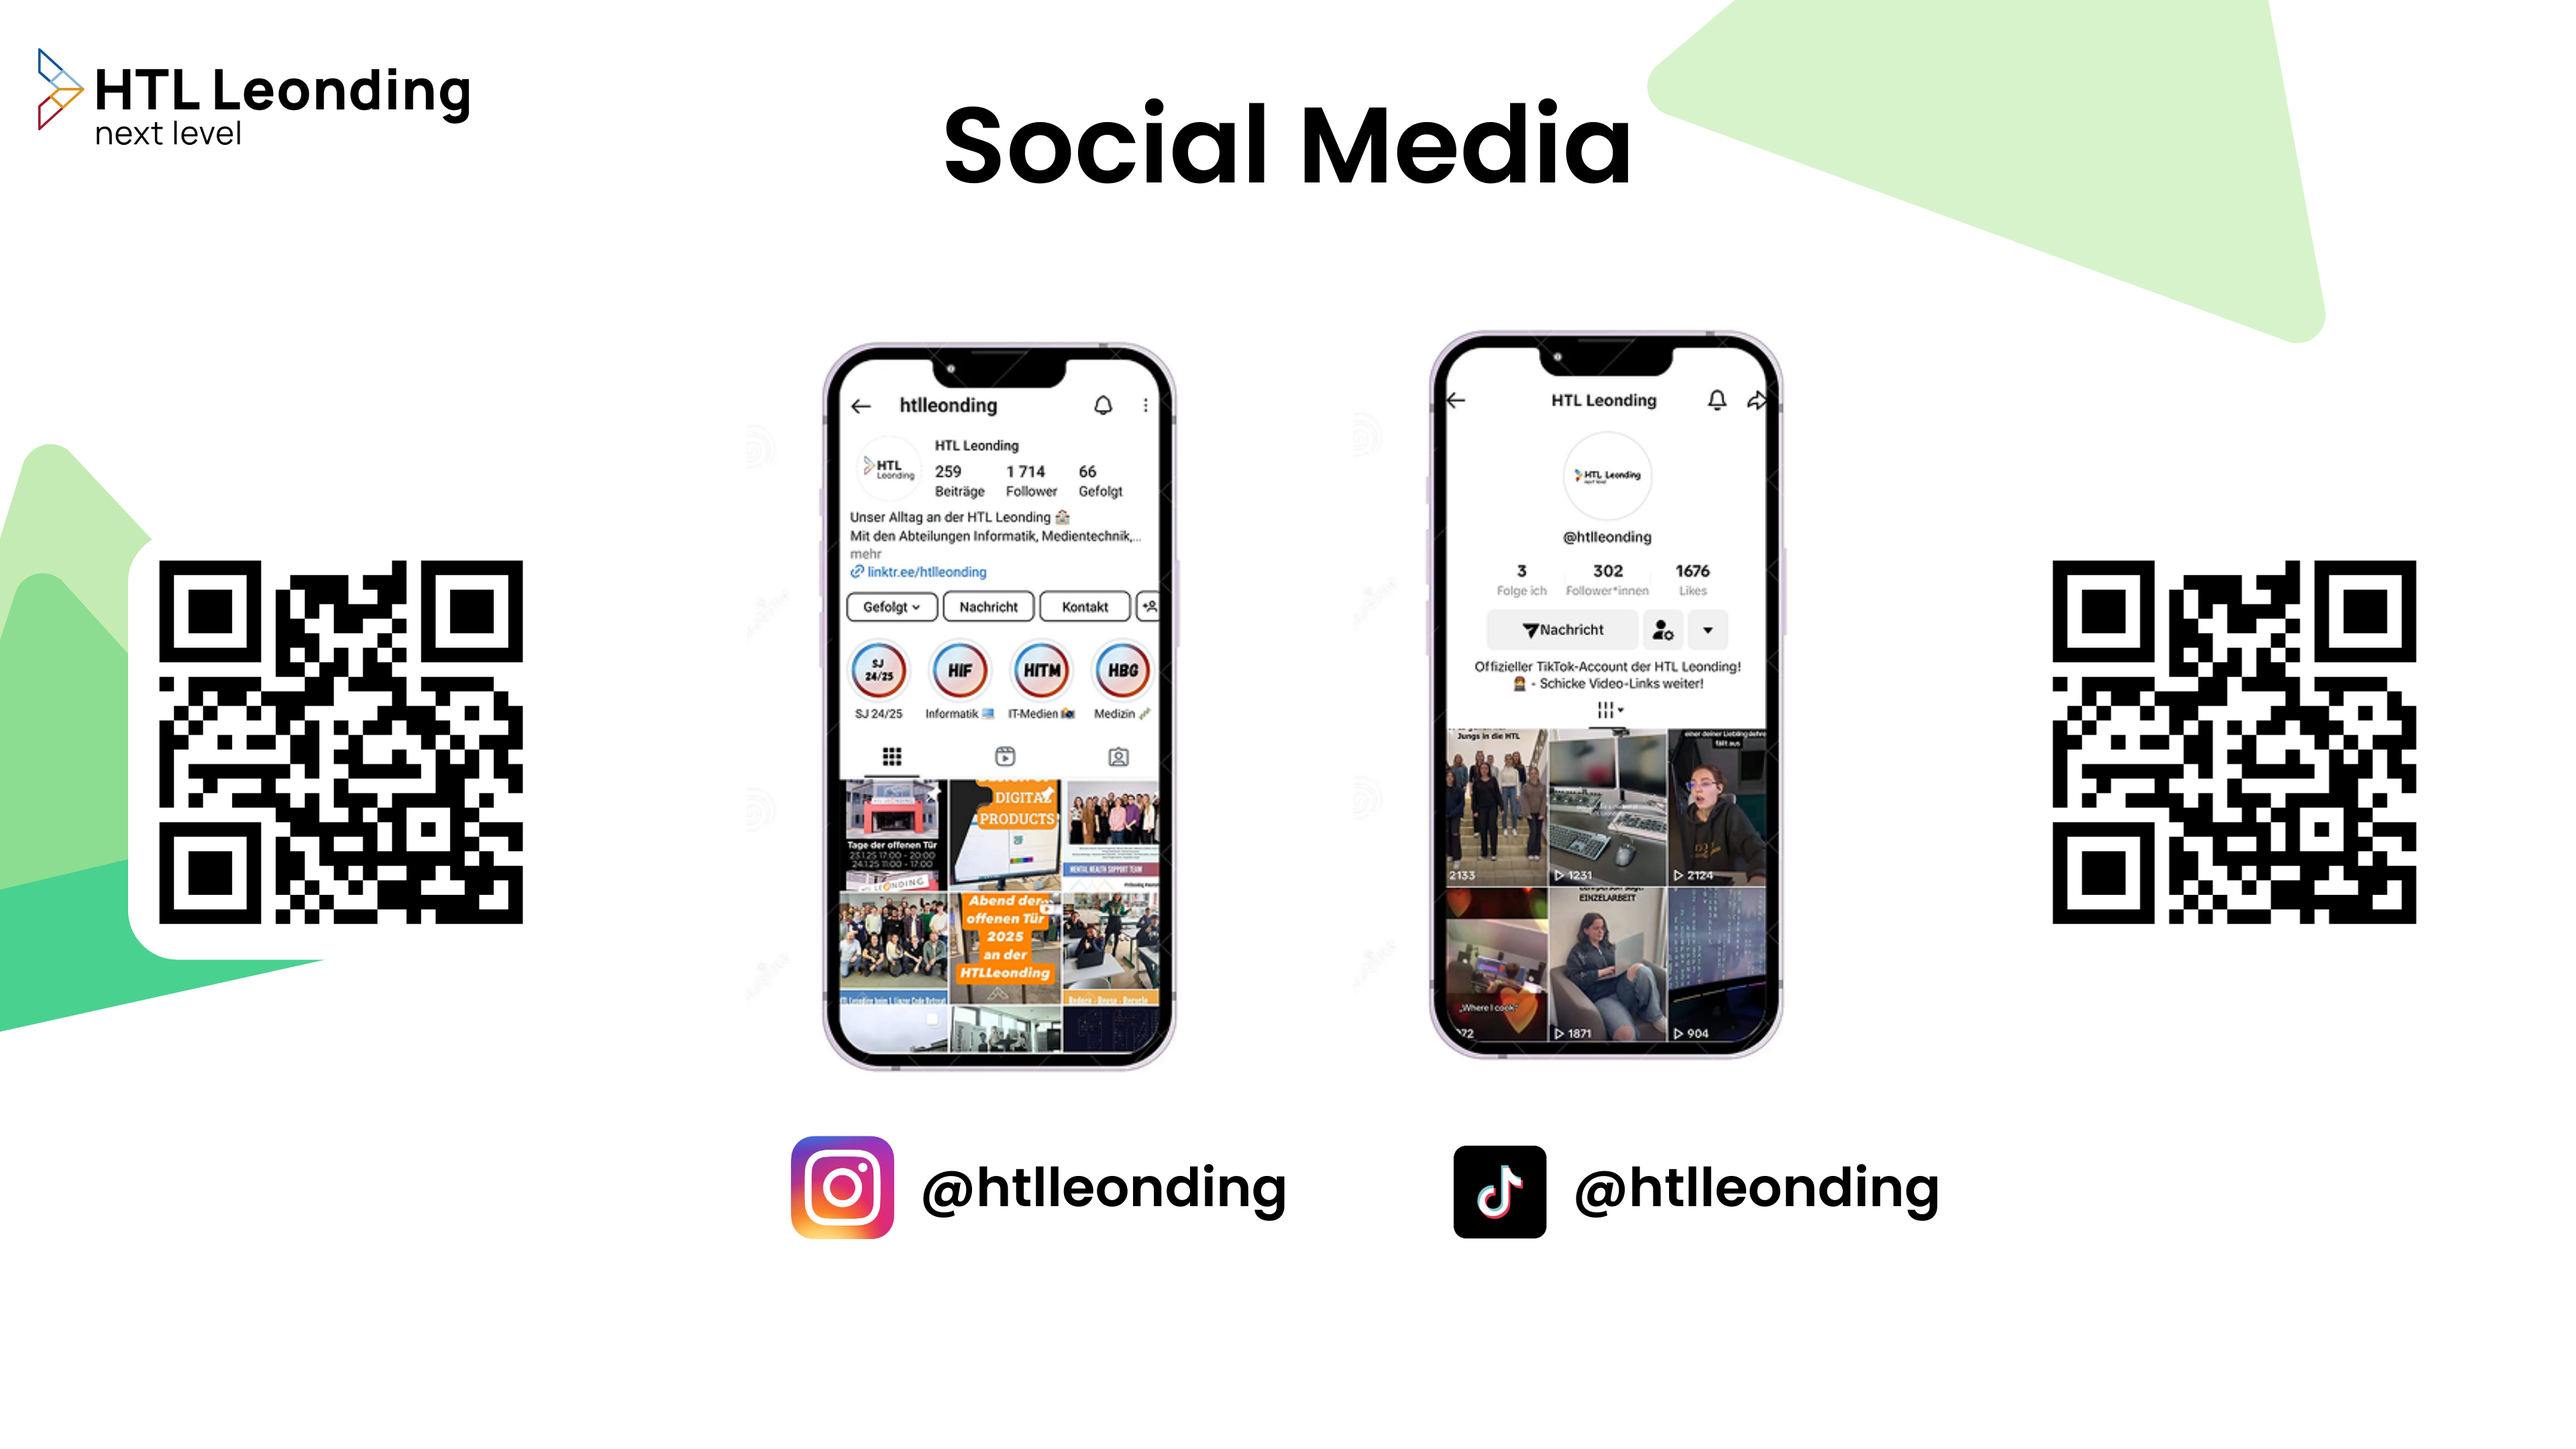
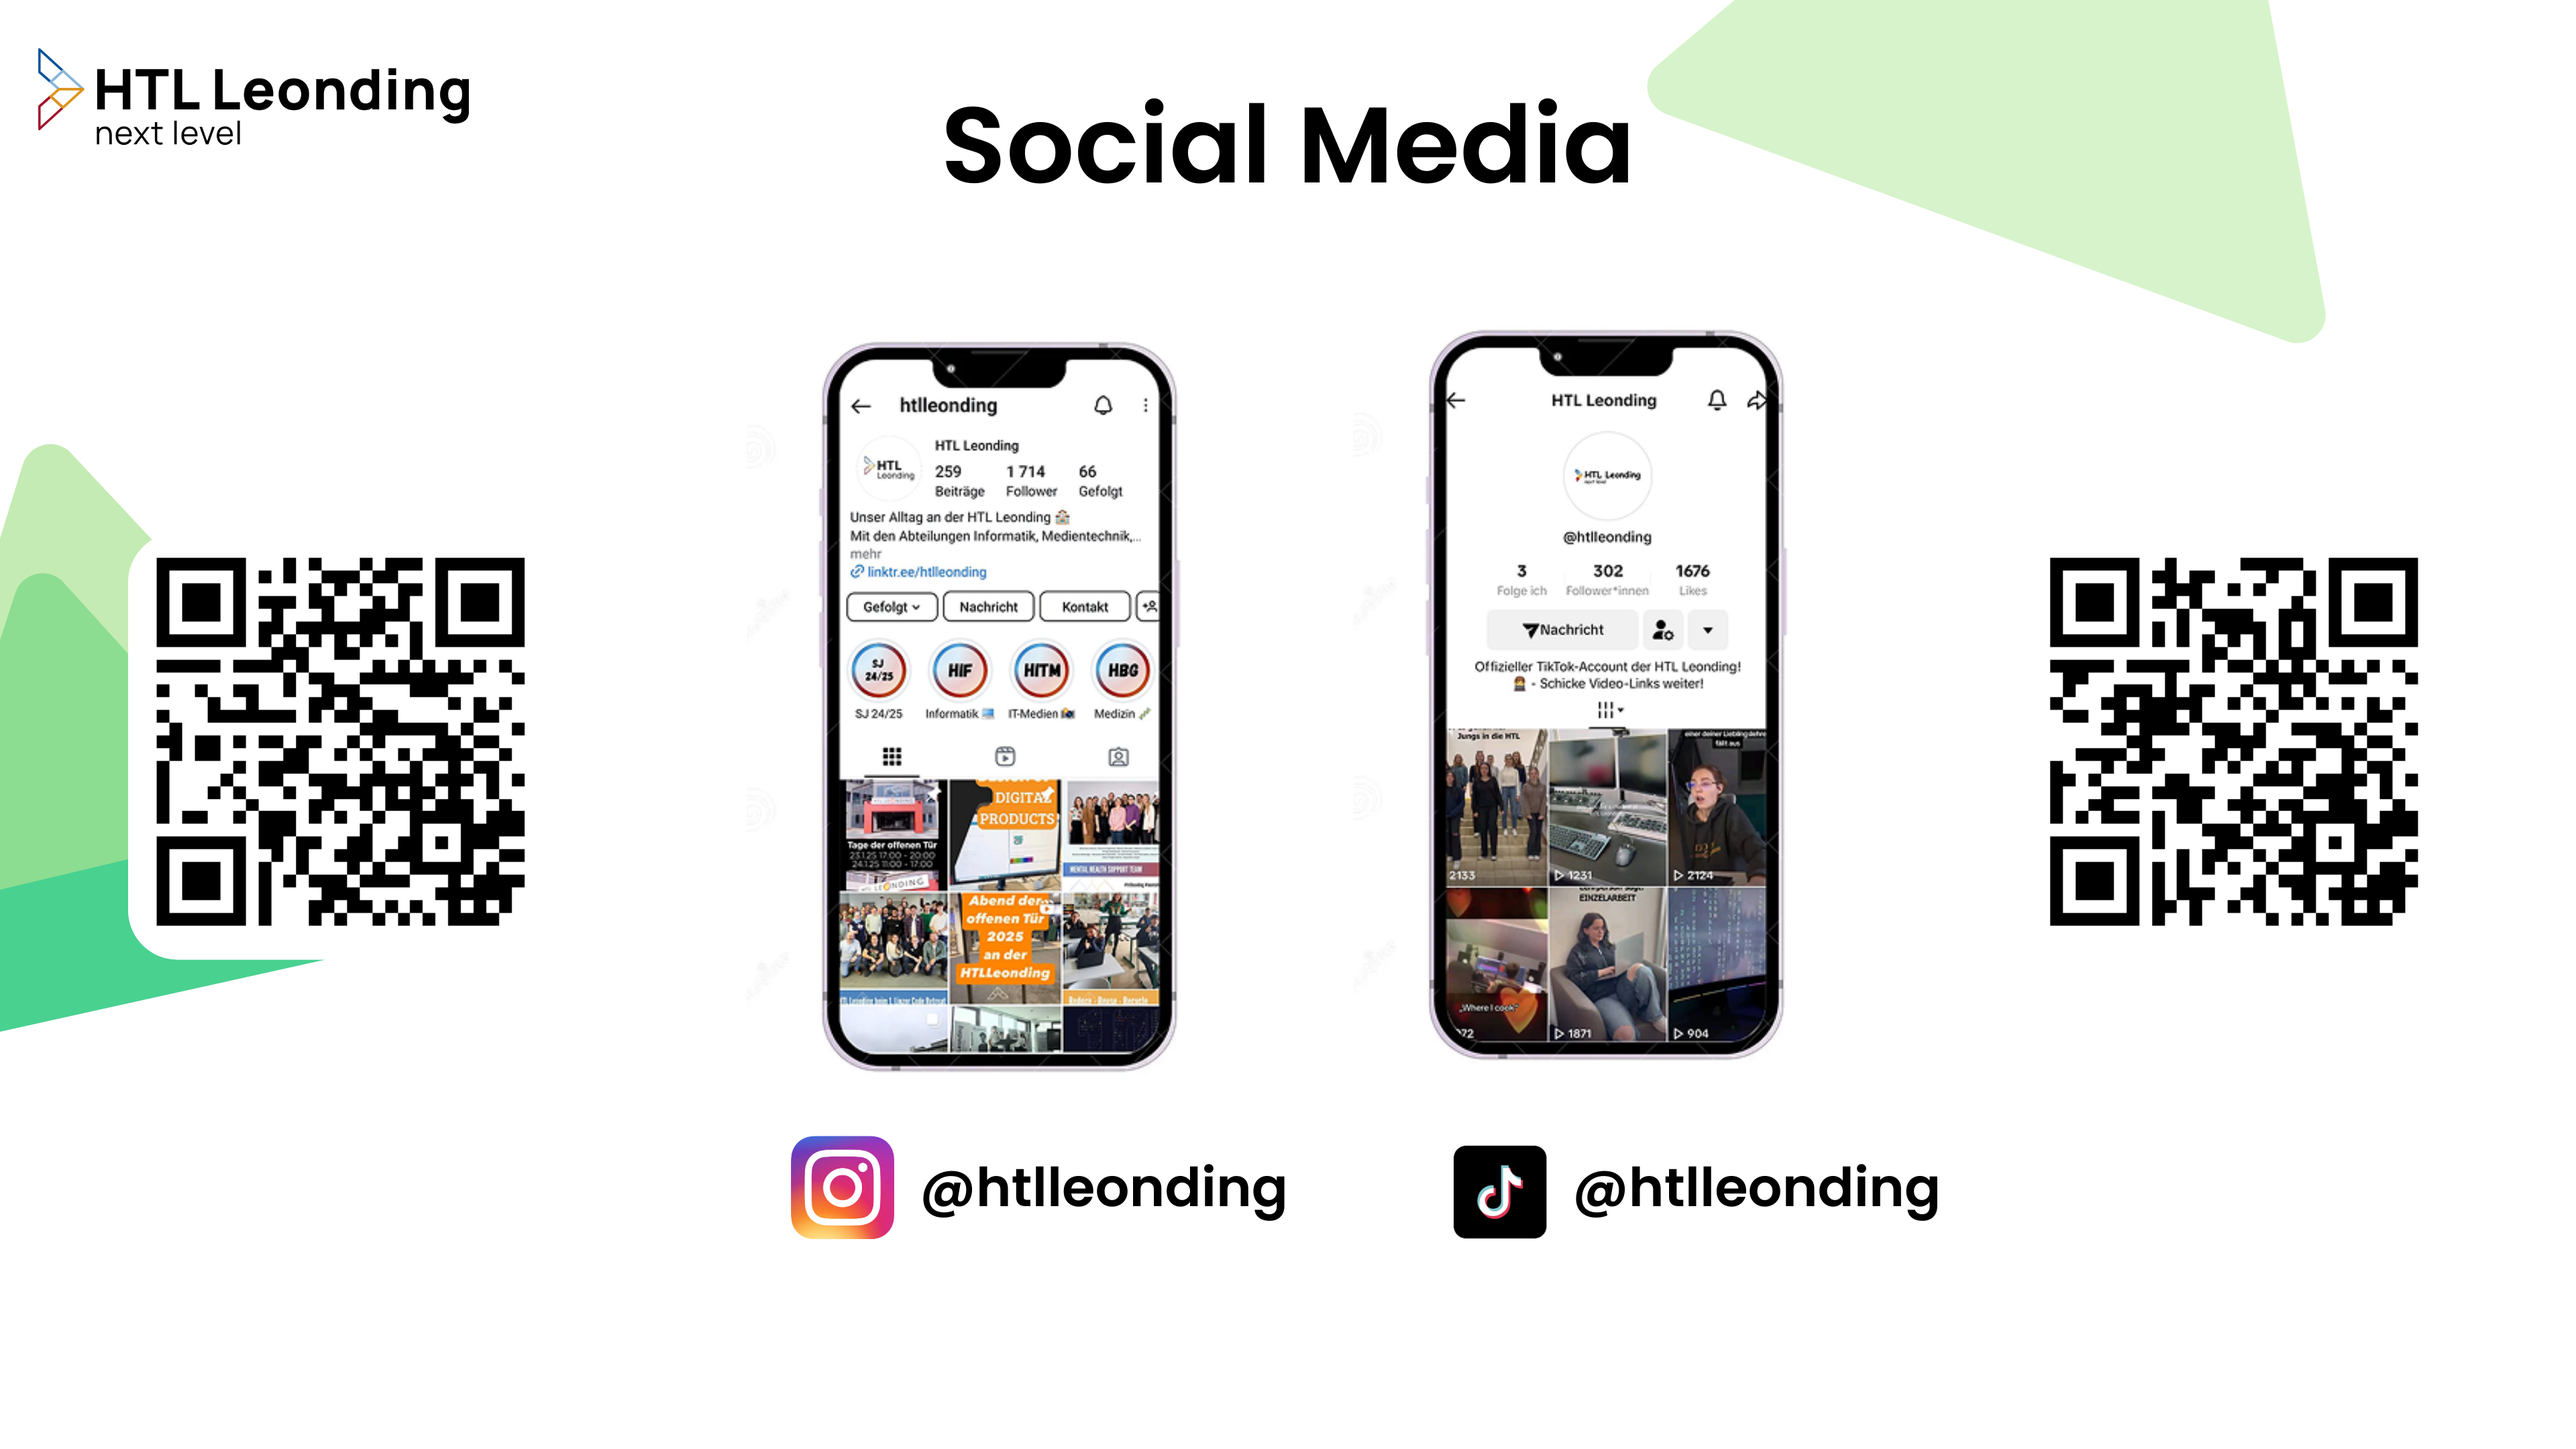
Qr Codes hinzugefügt

Changed region(s): [[0.7812, 0.3722, 0.9375, 0.6514], [0.0625, 0.3722, 0.2188, 0.6514]]

diff --git a/HTML/Smartboard_Isabella/Smartboard_slider/index.html b/HTML/Smartboard_Isabella/Smartboard_slider/index.html
@@ -21,7 +21,7 @@
     <div class="container">
         <img class="topics active" src="./images/ILB.png" alt="">
         <img class="topics" src="./images/GenderAndDiversity.png" alt="">
-        <img class="topics" src="./images/ILB.png" alt="">
+        <img class="topics" src="./images/MentalHealthTeam.png" alt="">
         <img class="topics" src="./images/Nachhilfe.png" alt="">
         <img class="topics" src="./images/Peers.png" alt="">
         <img class="topics" src="./images/Psychologen.png" alt="">
